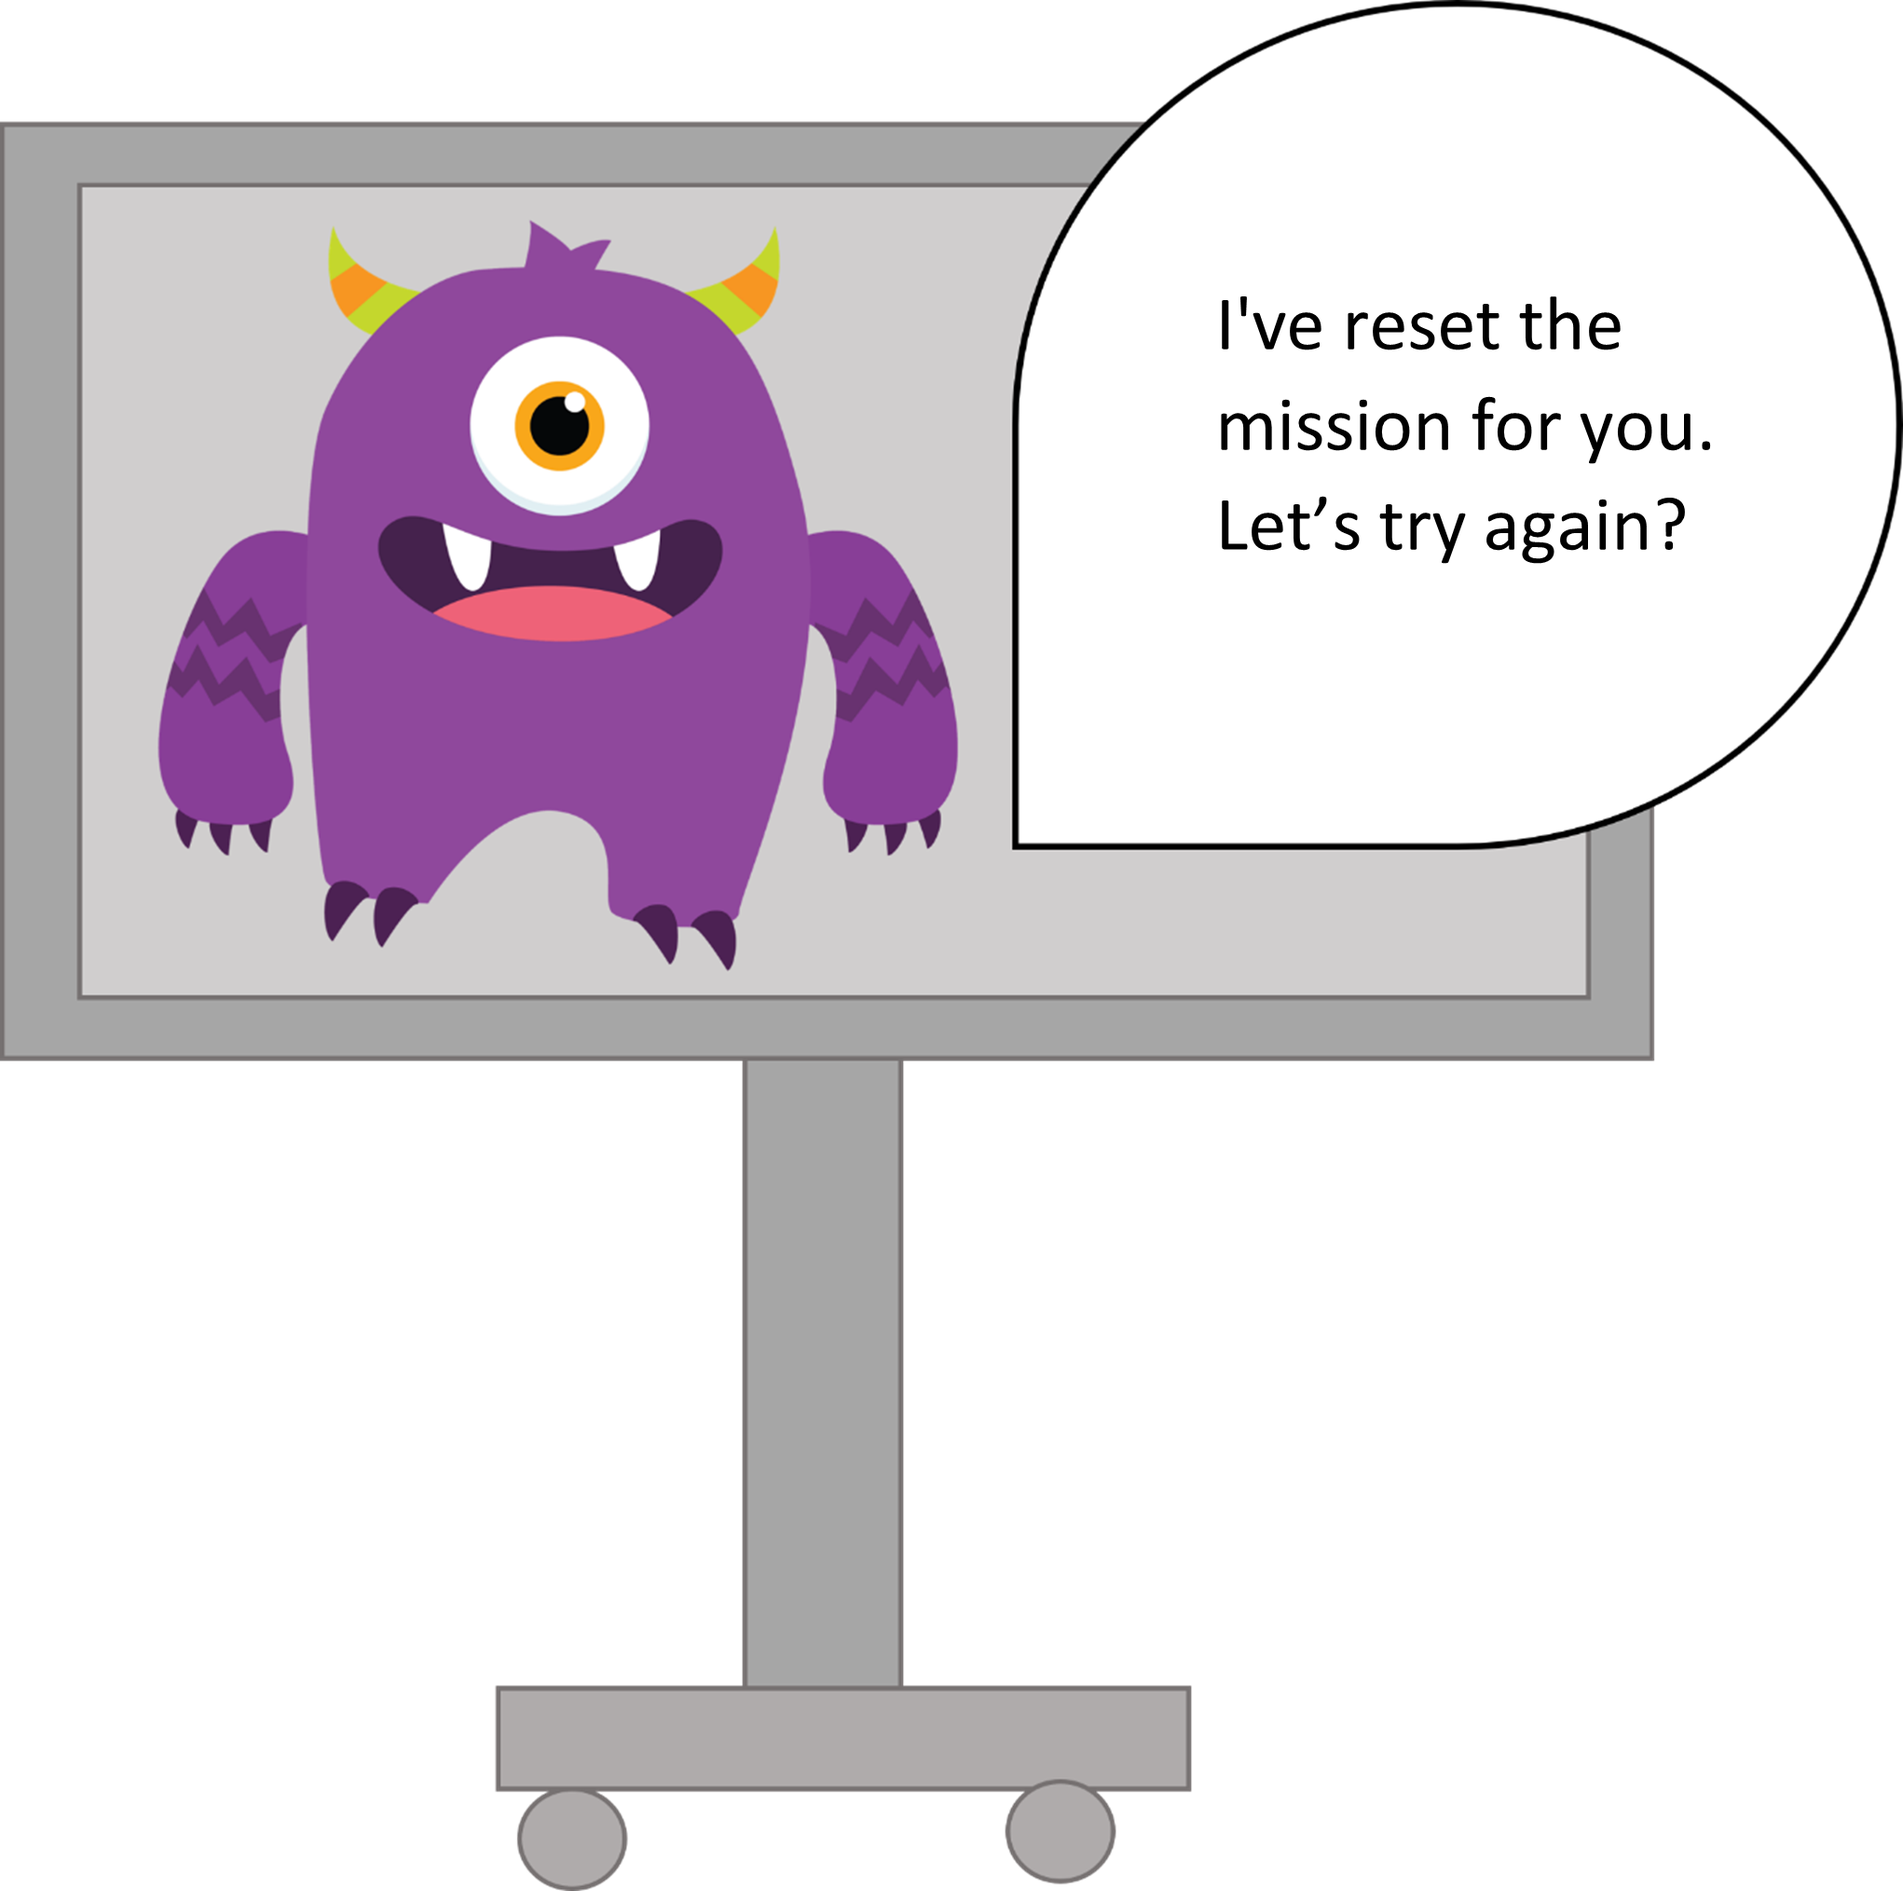
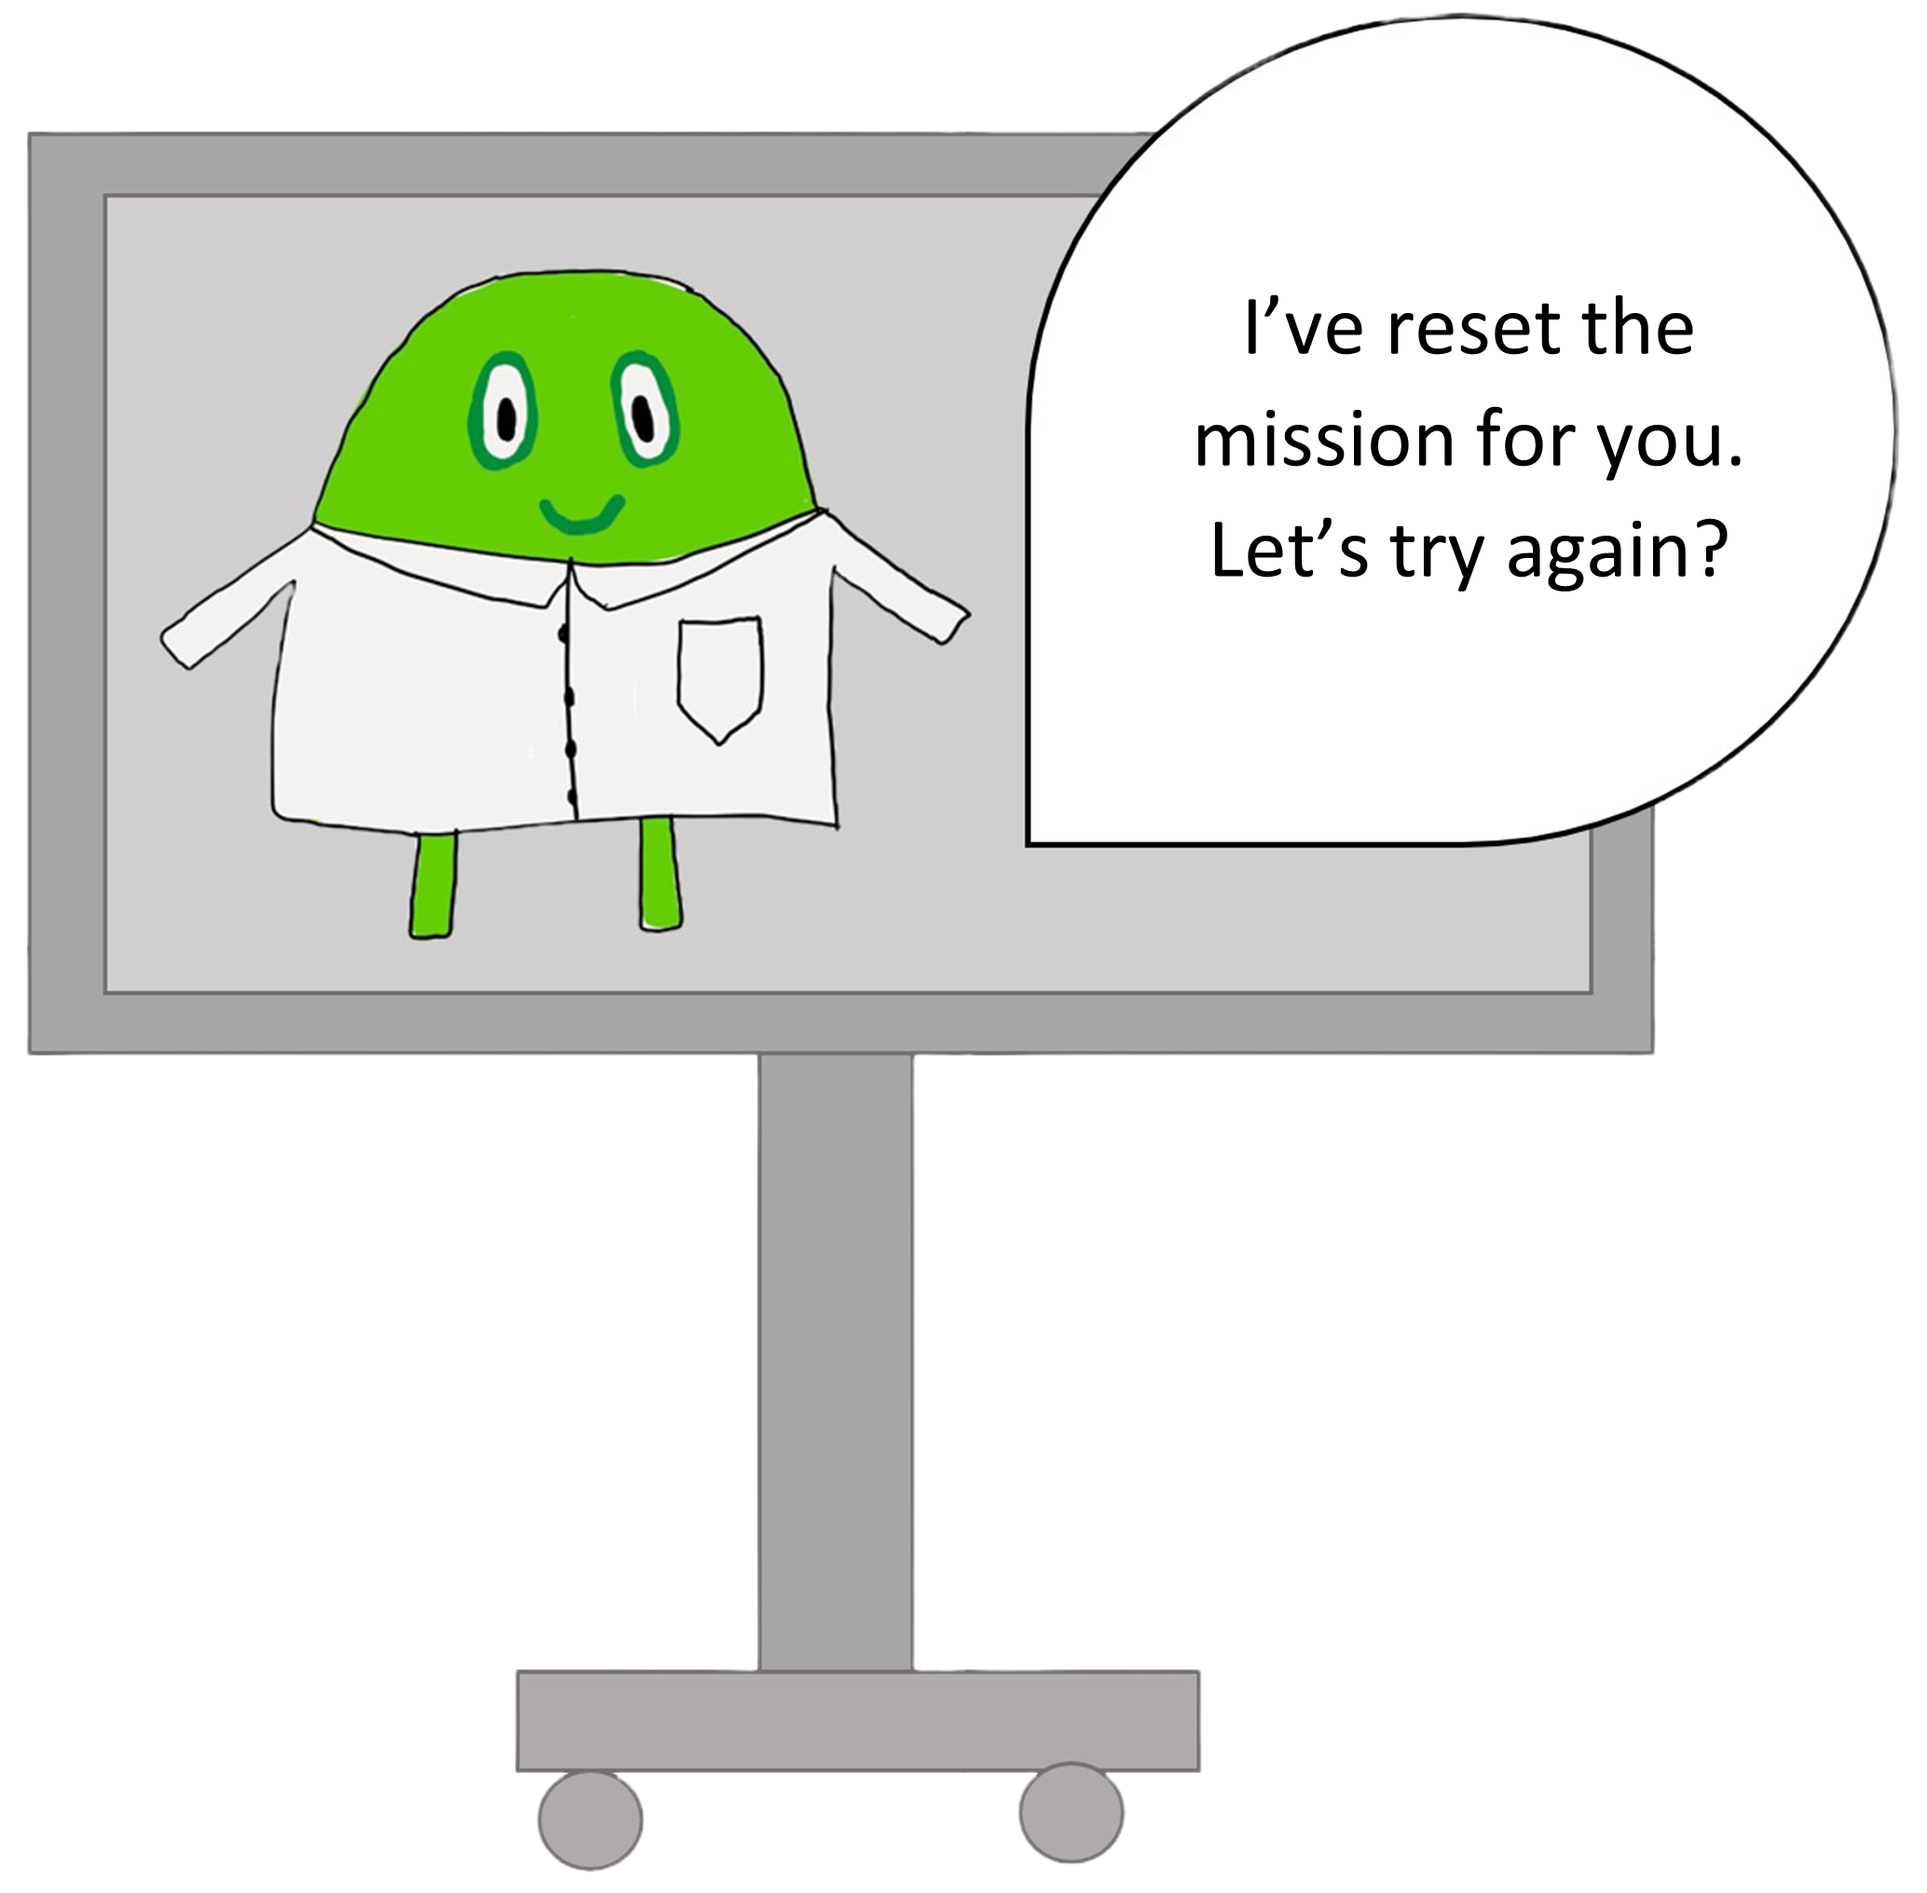
Changed instructor to be the green monster teacher in the mission pages.

diff --git a/exerciseapp/templates/story11.html b/exerciseapp/templates/story11.html
@@ -9,7 +9,7 @@
     <img src="{{ url_for('static', filename=image) }}" height="60%" width="auto" style="max-height: 300px"> 
 
     {% set image = "images/backstory/monster-teacher.png" %}
-    <img src="{{ url_for('static', filename=image) }}" height="60%" width="auto" style="max-height: 300px"> 
+    <img src="{{ url_for('static', filename=image) }}" height="40%" width="auto" style="max-height: 200px"> 
 
     <form action="{{ url_for("child.story12") }}" style="margin-block: auto; margin: 2%">
         <button id="next-story-page-button" class="glow-button" type="submit">=></button>
